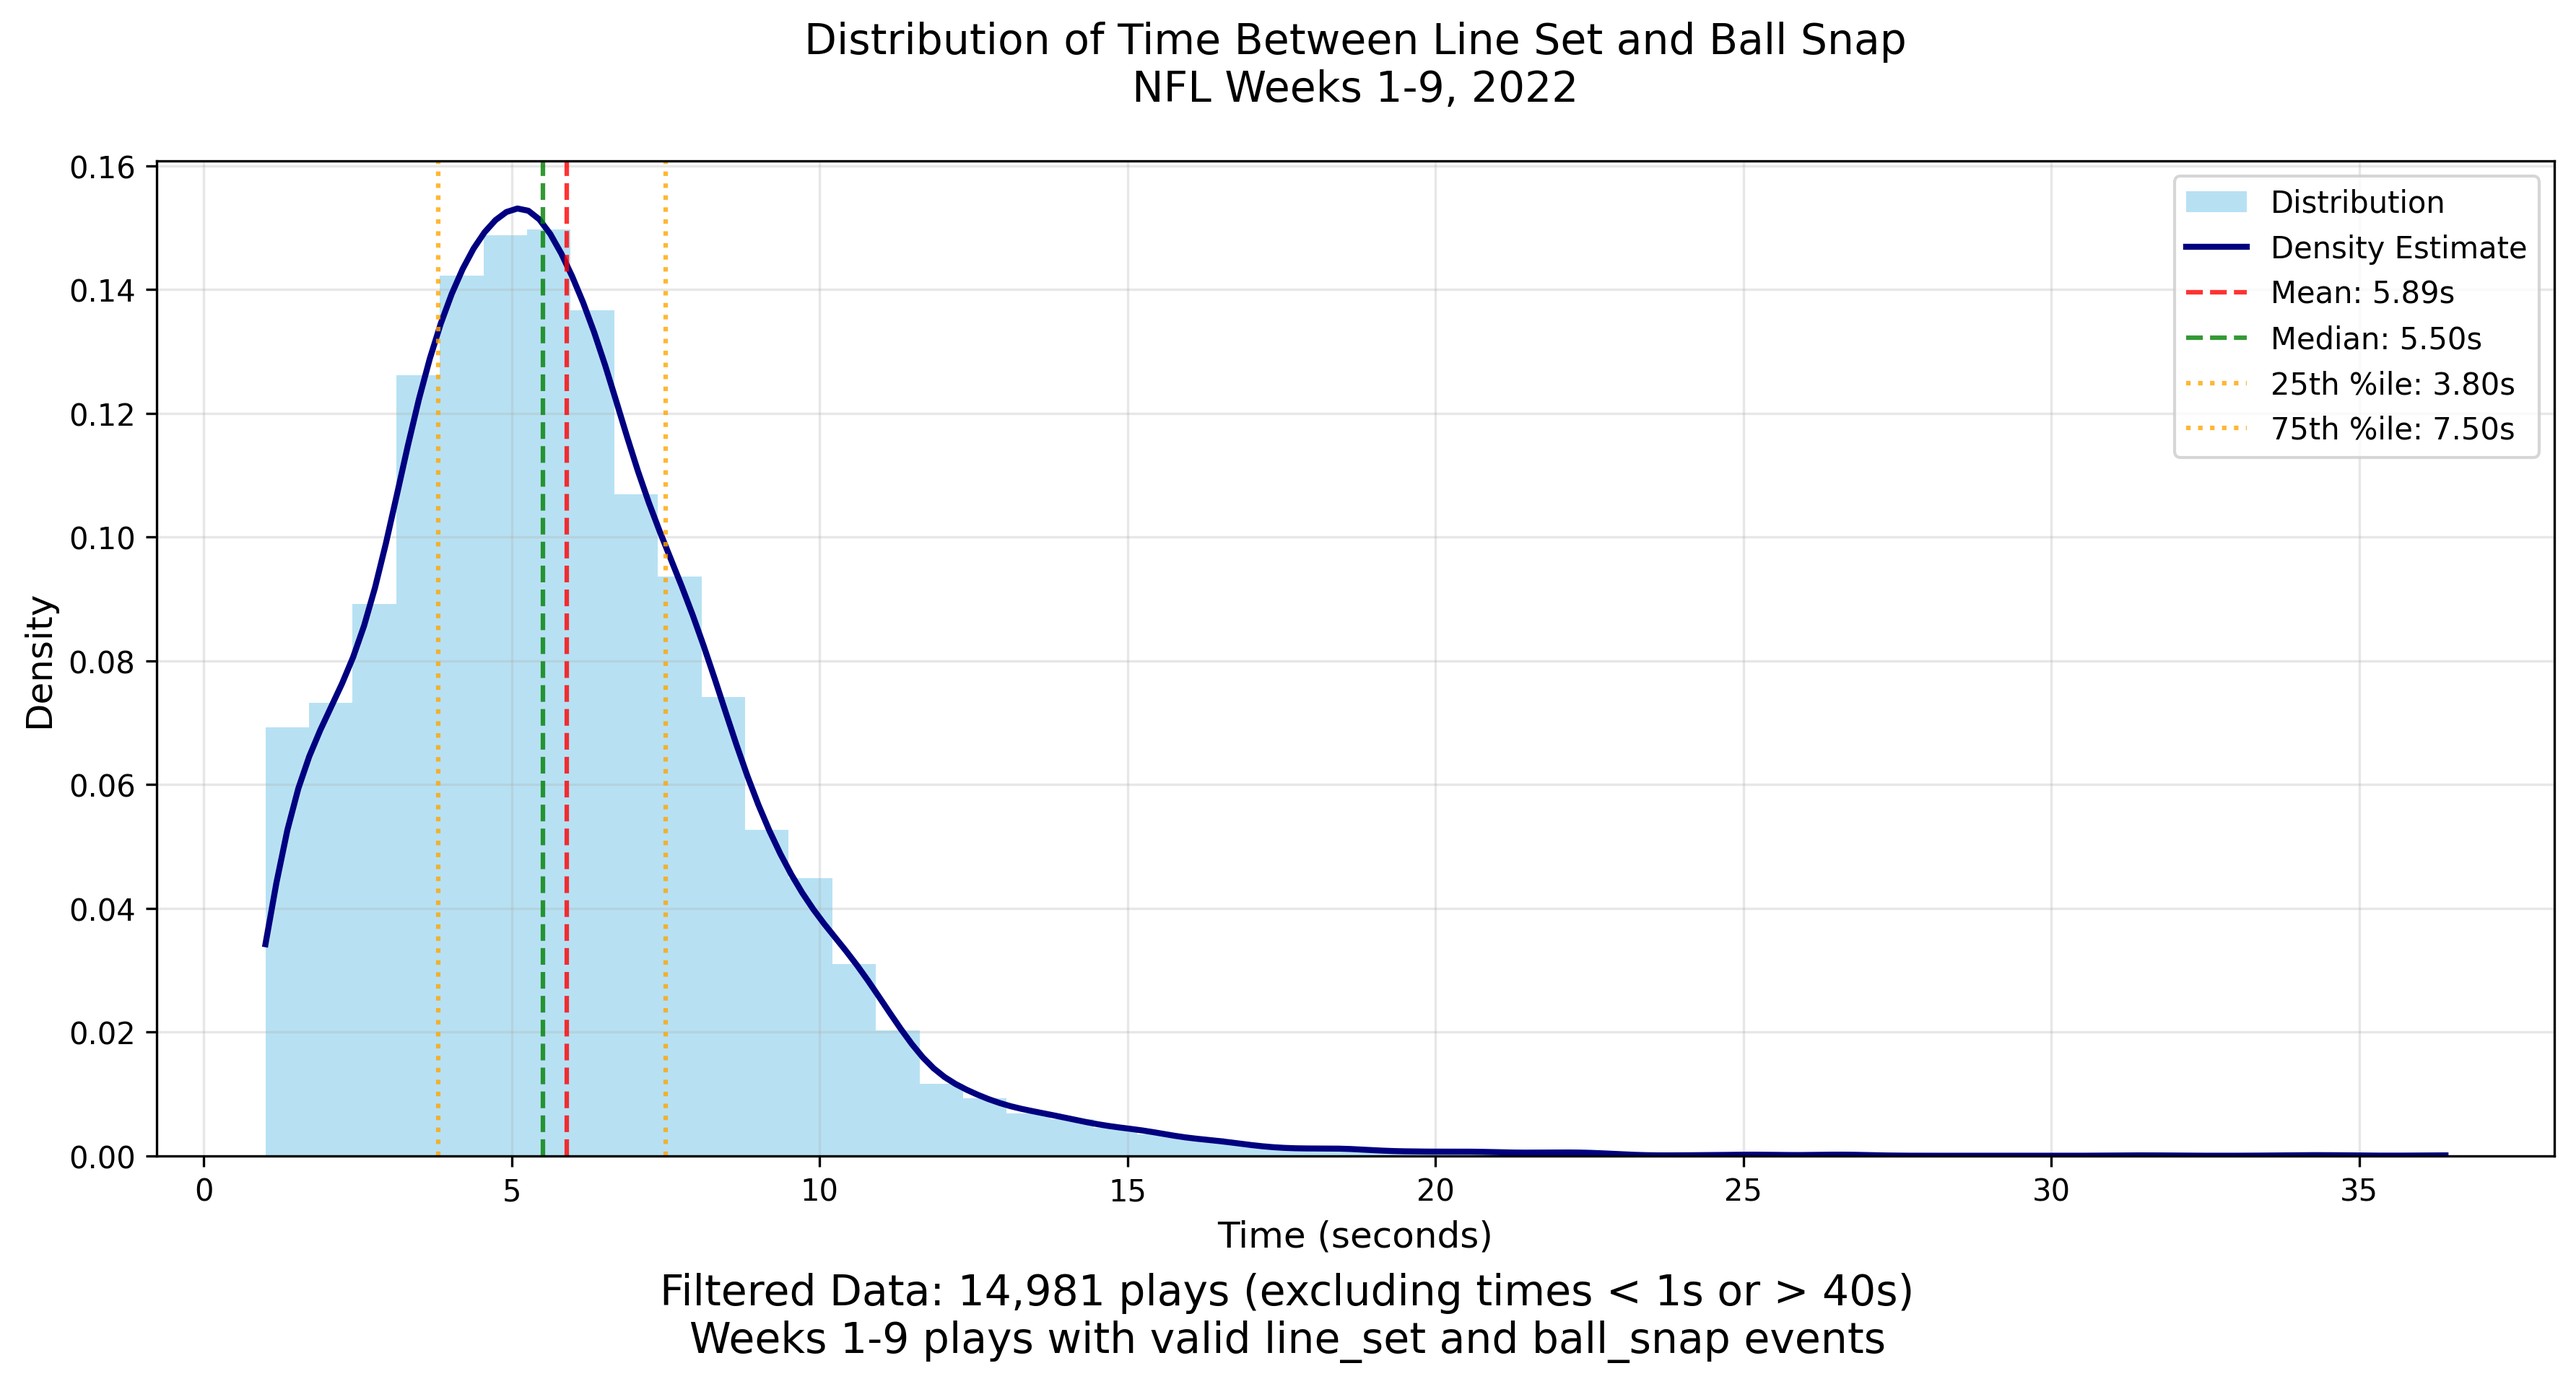
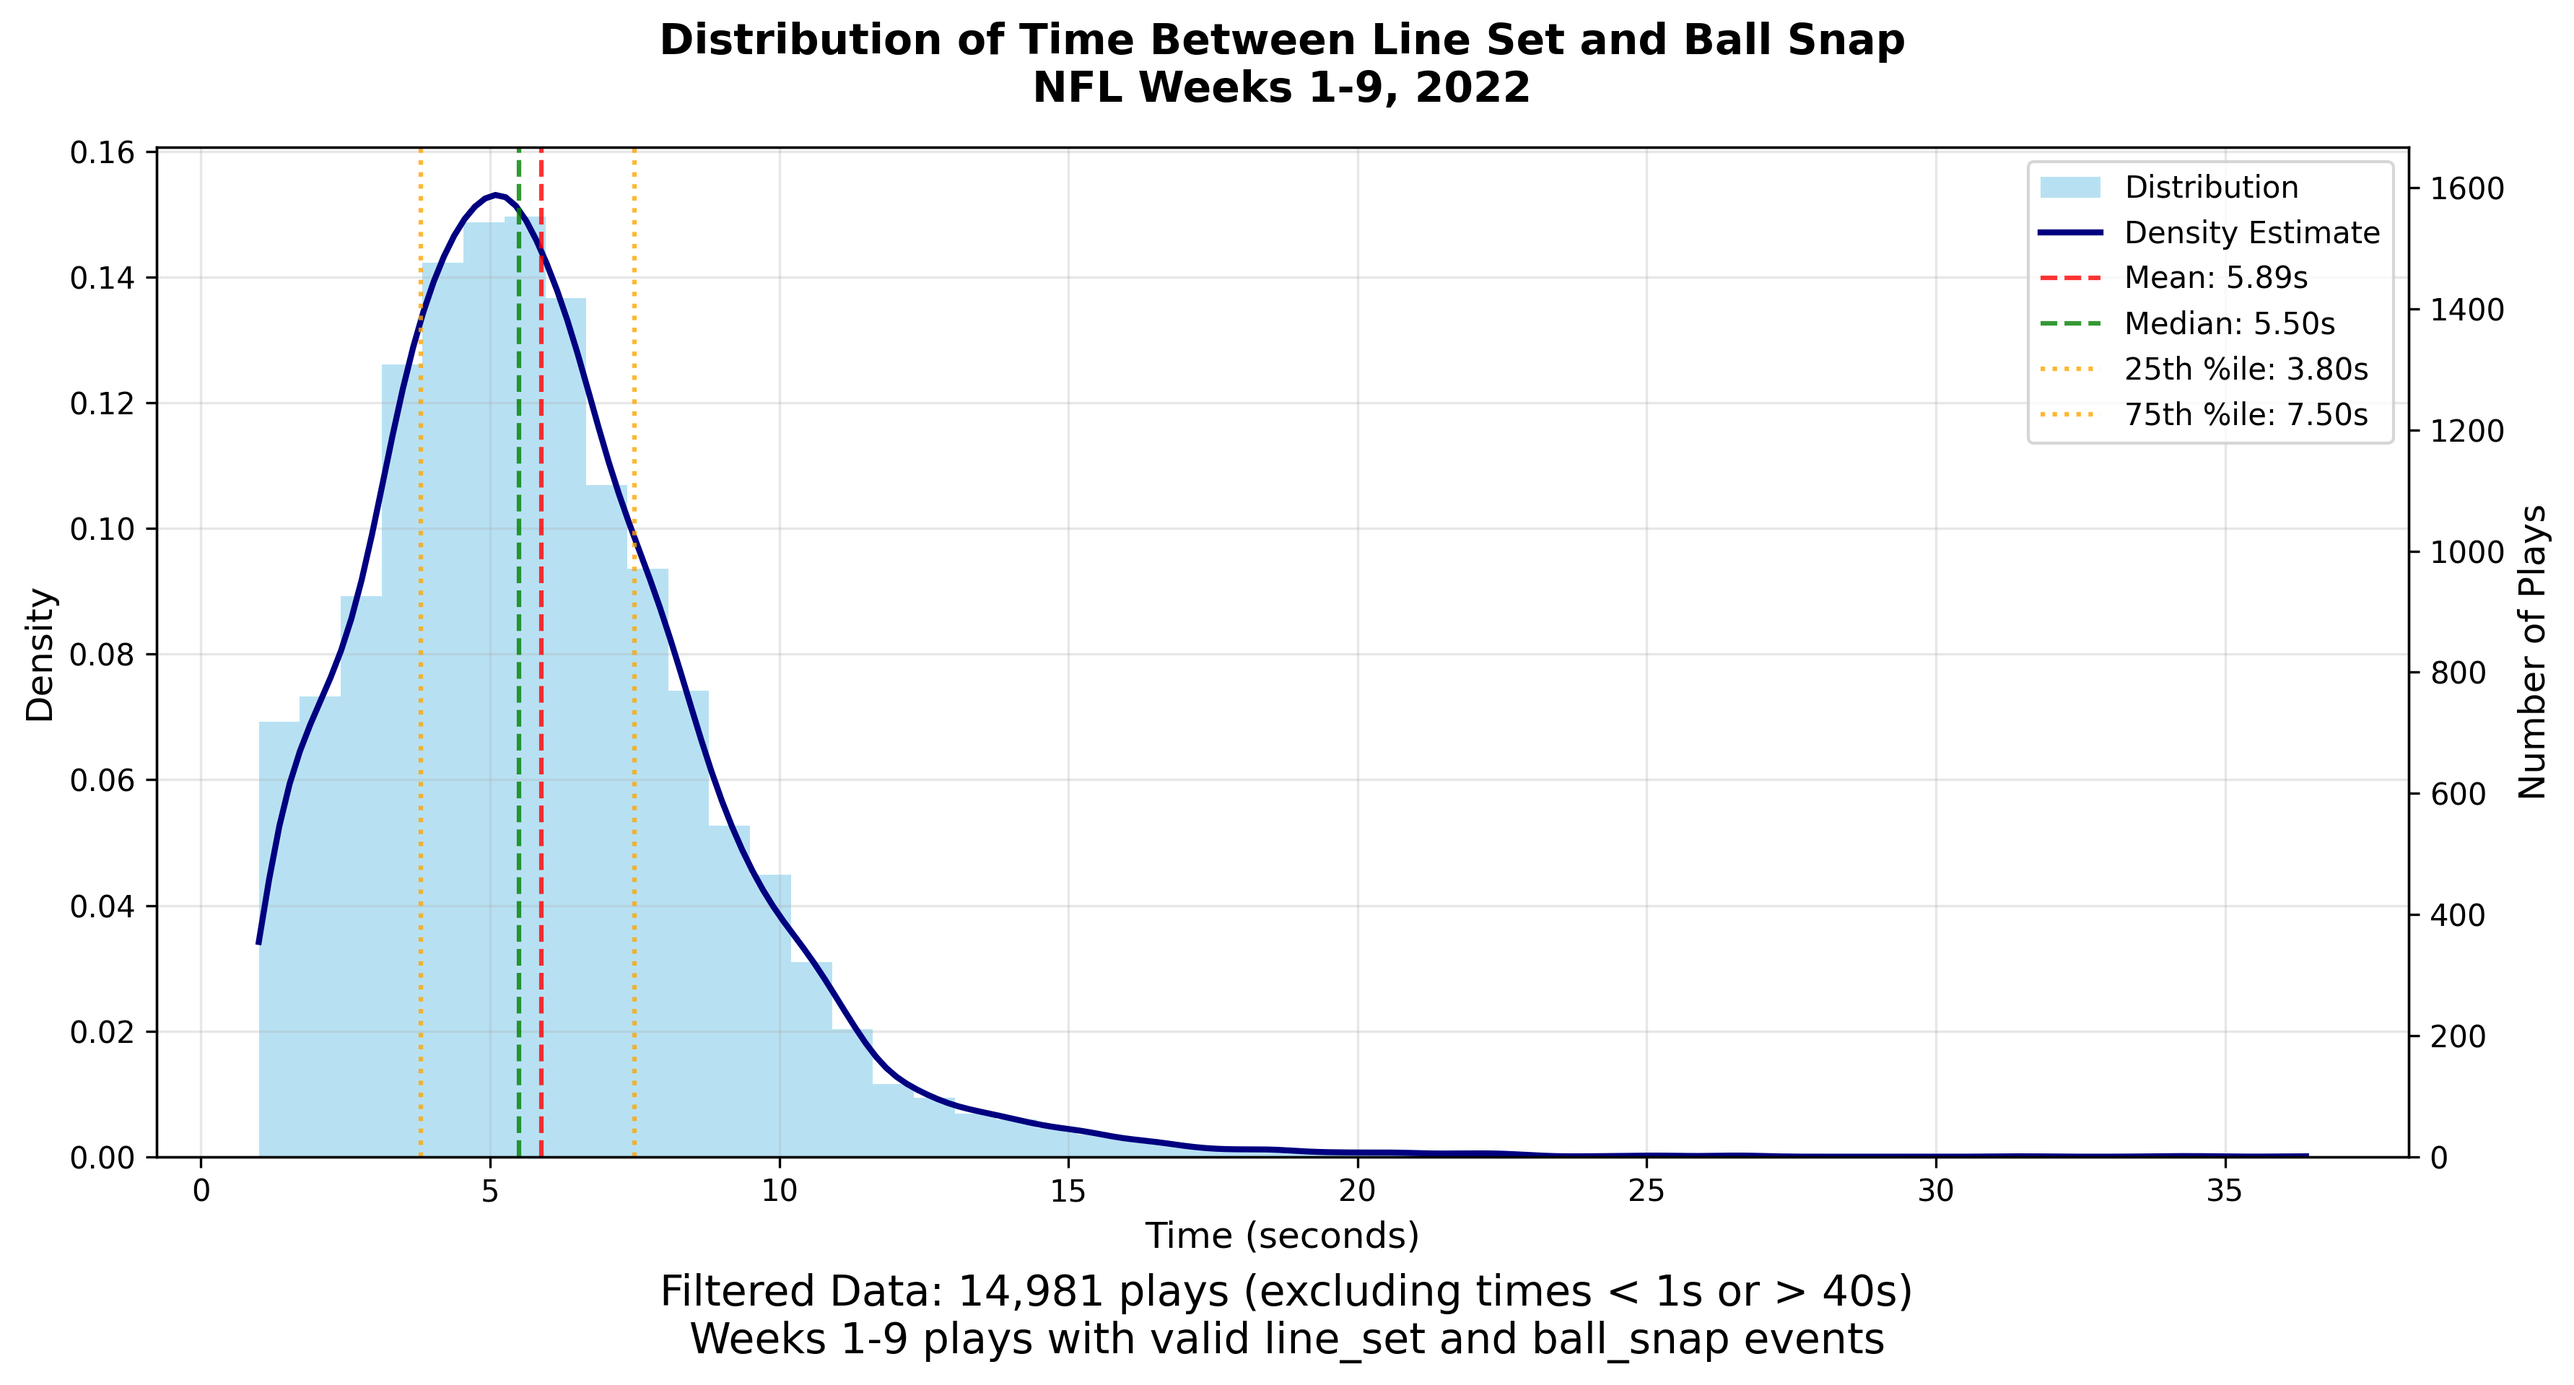
2 of 3 visuals done

diff --git a/analyze_plays.py b/analyze_plays.py
@@ -3,29 +3,60 @@ import matplotlib.pyplot as plt
 import numpy as np
 
 try:
+    # Read all tracking data files
+    print("Reading tracking data...")
+    all_tracking_data = []
+    for week in range(1, 10):  # Weeks 1-9
+        df = pd.read_csv(f'tracking_week_{week}.csv')
+        all_tracking_data.append(df)
+    
+    tracking_df = pd.concat(all_tracking_data)
+    
     # Read plays data
     print("Reading plays data...")
     plays_df = pd.read_csv('plays.csv')
-
-    # Get unique plays (gameId, playId combinations)
-    unique_plays = plays_df[['gameId', 'playId']].drop_duplicates()
-    total_plays = len(unique_plays)
-
-    # Count plays with penalties
-    plays_with_penalties = plays_df[plays_df['playNullifiedByPenalty'] == True][['gameId', 'playId']].drop_duplicates()
-    penalty_count = len(plays_with_penalties)
-    clean_plays = total_plays - penalty_count
-
-    print("\nPlay Counts:")
-    print(f"Total unique plays: {total_plays}")
-    print(f"Plays with penalties: {penalty_count}")
-    print(f"Plays without penalties: {clean_plays}")
-
-    # Analyze formations and coverages for clean plays
-    clean_plays_df = plays_df[~plays_df[['gameId', 'playId']].apply(tuple, axis=1).isin(
-        plays_with_penalties[['gameId', 'playId']].apply(tuple, axis=1)
-    )]
-
+    
+    # First, identify valid plays based on snap timing
+    print("\nIdentifying valid plays based on snap timing...")
+    valid_plays = []
+    for (game_id, play_id), play_data in tracking_df.groupby(['gameId', 'playId']):
+        # Get events in chronological order
+        events = play_data.sort_values('frameId')['event'].dropna().unique()
+        
+        # Find line_set and ball_snap events
+        line_set_frame = play_data[play_data['event'] == 'line_set']['frameId'].min()
+        snap_frame = play_data[play_data['event'] == 'ball_snap']['frameId'].min()
+        
+        # If both events exist and in correct order, calculate time difference
+        if (pd.notna(line_set_frame) and pd.notna(snap_frame) and 
+            snap_frame > line_set_frame):  # Ensure snap comes after line set
+            # Each frame is 0.1 seconds
+            time_diff = (snap_frame - line_set_frame) * 0.1
+            # Only include reasonable times (between 1 and 40 seconds)
+            if 1 <= time_diff <= 40:
+                valid_plays.append((game_id, play_id))
+    
+    valid_plays_df = pd.DataFrame(valid_plays, columns=['gameId', 'playId'])
+    
+    # Filter plays data for valid plays only
+    filtered_plays = plays_df.merge(valid_plays_df, on=['gameId', 'playId'])
+    total_plays = len(filtered_plays)
+    
+    print(f"\nAnalyzing {total_plays:,} valid plays...")
+    
+    # Analyze formations and coverages
+    off_cross = pd.crosstab(filtered_plays['offenseFormation'], filtered_plays['receiverAlignment'])
+    def_cross = pd.crosstab(filtered_plays['pff_passCoverage'], filtered_plays['pff_manZone'])
+    
+    # Sort formations by total frequency
+    formation_totals = off_cross.sum(axis=1)
+    off_cross = off_cross.loc[formation_totals.sort_values(ascending=False).index]
+    
+    # Sort coverages by total frequency and keep top 8
+    coverage_totals = def_cross.sum(axis=1)
+    top_coverages = coverage_totals.sort_values(ascending=False).head(8)
+    def_cross = def_cross.loc[top_coverages.index]
+    
     # Set figure style
     plt.rcParams['font.size'] = 14
     plt.rcParams['figure.facecolor'] = 'white'
@@ -35,31 +66,24 @@ try:
     red_colors = ['#c0392b', '#e74c3c', '#ec7063', '#f1948a', '#f5b7b1', '#fadbd8', '#fdedec']
     
     # Create figure with subplots
-    fig = plt.figure(figsize=(20, 18))  # Increased height to accommodate title
+    fig = plt.figure(figsize=(20, 18))
     
-    # Add total plays text at the top
-    fig.suptitle(f'Total Plays Analyzed: {total_plays:,}', 
-                 y=0.95, fontsize=20, weight='bold')
+    # Add title explaining the filtering
+    fig.suptitle(f'Formation and Coverage Analysis\nBased on {total_plays:,} plays with valid pre-snap timing (1-40 seconds)',
+                 y=0.95, fontsize=16, weight='bold')
     
     # 1. Offensive Formation and Receiver Alignment Chart
     plt.subplot(2, 1, 1)
     
-    # Create cross-tabulation of formations and alignments
-    off_cross = pd.crosstab(clean_plays_df['offenseFormation'], clean_plays_df['receiverAlignment'])
-    
-    # Sort formations by total frequency
-    formation_totals = off_cross.sum(axis=1)
-    off_cross = off_cross.loc[formation_totals.sort_values(ascending=False).index]
-    
     # Create stacked bar chart
     bottom = np.zeros(len(off_cross))
     bars = []
-    min_segment_height = 100  # Minimum height for showing labels
+    min_segment_height = 100
     
     for i, alignment in enumerate(off_cross.columns):
-        bars.append(plt.bar(off_cross.index, off_cross[alignment], bottom=bottom, 
-                label=f'{alignment}', color=blue_colors[i % len(blue_colors)],
-                edgecolor='black', linewidth=1))
+        bars.append(plt.bar(off_cross.index, off_cross[alignment], bottom=bottom,
+                          label=f'{alignment}', color=blue_colors[i % len(blue_colors)],
+                          edgecolor='black', linewidth=1))
         # Add labels for significant segments
         for j, value in enumerate(off_cross[alignment]):
             if value > min_segment_height:
@@ -73,25 +97,24 @@ try:
                         bbox=dict(facecolor='white', edgecolor='none', alpha=0.7, pad=2))
         bottom += off_cross[alignment]
     
-    plt.title('Offensive Formation and Receiver Alignment Distribution', pad=20, size=20, weight='bold')
-    plt.xlabel('Offensive Formation', size=16, weight='bold')
-    plt.ylabel('Number of Plays', size=16, weight='bold')
-    plt.xticks(rotation=45, ha='right', fontsize=14)
-    plt.legend(title='Receiver Alignment', bbox_to_anchor=(1.05, 1), loc='upper left', 
+    # Add total count and percentage above each bar
+    formation_totals = off_cross.sum(axis=1)  # Calculate total for each formation
+    for i, total in enumerate(formation_totals):
+        percentage = (total / total_plays) * 100
+        plt.text(i, bottom[i] + 50, f'Total: {int(total):,}\n({percentage:.0f}%)',
+                ha='center', va='bottom', fontsize=12, weight='bold')
+    
+    plt.title('Offensive Formation and Receiver Alignment Distribution', pad=20, size=16, weight='bold')
+    plt.xlabel('Offensive Formation', size=14, weight='bold')
+    plt.ylabel('Number of Plays', size=14, weight='bold')
+    plt.xticks(rotation=45, ha='right', fontsize=12)
+    plt.legend(title='Receiver Alignment', bbox_to_anchor=(1.05, 1), loc='upper left',
               title_fontsize=14, fontsize=12)
     plt.grid(axis='y', linestyle='--', alpha=0.7)
-    plt.ylim(0, 9000)  # Set consistent y-axis limit
-
+    plt.ylim(0, 9000)  # Set y-axis limit to 9000 plays
+    
     # 2. Defensive Coverage and Man/Zone Chart
     plt.subplot(2, 1, 2)
-    
-    # Create cross-tabulation of coverage and man/zone
-    def_cross = pd.crosstab(clean_plays_df['pff_passCoverage'], clean_plays_df['pff_manZone'])
-    
-    # Sort coverages by total frequency and keep top 8
-    coverage_totals = def_cross.sum(axis=1)
-    top_coverages = coverage_totals.sort_values(ascending=False).head(8)
-    def_cross = def_cross.loc[top_coverages.index]
     
     # Create vertical stacked bar chart
     bottom = np.zeros(len(def_cross))
@@ -112,20 +135,27 @@ try:
                         bbox=dict(facecolor='white', edgecolor='none', alpha=0.7, pad=2))
         bottom += def_cross[coverage_type]
     
-    plt.title('Defensive Coverage and Man/Zone Distribution', pad=20, size=20, weight='bold')
-    plt.xlabel('Coverage Type', size=16, weight='bold')
-    plt.ylabel('Number of Plays', size=16, weight='bold')
-    plt.xticks(rotation=45, ha='right', fontsize=14)
+    # Add total count and percentage above each bar
+    coverage_totals = def_cross.sum(axis=1)
+    for i, total in enumerate(coverage_totals):
+        percentage = (total / total_plays) * 100
+        plt.text(i, bottom[i] + 50, f'Total: {total:,}\n({percentage:.0f}%)',
+                ha='center', va='bottom', fontsize=12, weight='bold')
+    
+    plt.title('Defensive Coverage and Man/Zone Distribution', pad=20, size=16, weight='bold')
+    plt.xlabel('Coverage Type', size=14, weight='bold')
+    plt.ylabel('Number of Plays', size=14, weight='bold')
+    plt.xticks(rotation=45, ha='right', fontsize=12)
     plt.legend(title='Coverage Scheme', bbox_to_anchor=(1.05, 1), loc='upper left',
               title_fontsize=14, fontsize=12)
     plt.grid(axis='y', linestyle='--', alpha=0.7)
-    plt.ylim(0, 9000)  # Set consistent y-axis limit
-
+    plt.ylim(0, 9000)  # Set y-axis limit to 9000 plays
+    
     # Adjust layout and save
-    plt.tight_layout(pad=4.0, rect=[0, 0, 0.85, 0.95])  # Make room for legends
+    plt.tight_layout(pad=4.0, rect=[0, 0, 0.85, 0.95])
     plt.savefig('formation_coverage_analysis.png', dpi=300, bbox_inches='tight')
     print("\nVisualization saved as 'formation_coverage_analysis.png'")
-
+    
     # Print text summaries
     print("\nOffensive Formation Breakdown:")
     print(formation_totals.to_string())

diff --git a/analyze_snap_timing.py b/analyze_snap_timing.py
@@ -1,6 +1,7 @@
 import pandas as pd
 import numpy as np
 import matplotlib.pyplot as plt
+from scipy.stats import gaussian_kde
 
 # Set style for better visualization
 plt.style.use('default')
@@ -57,31 +58,45 @@ print(f"25th percentile: {percentiles[0]:.2f} seconds")
 print(f"75th percentile: {percentiles[1]:.2f} seconds")
 
 # Create visualization
-plt.figure(figsize=(12, 6))
+fig = plt.figure(figsize=(12, 6))
 
-# Create histogram
-plt.hist(snap_times, bins=50, density=True, alpha=0.6, color='skyblue', label='Distribution')
+# Create primary axis for density
+ax1 = plt.gca()
+ax2 = ax1.twinx()  # Create secondary axis for counts
 
-# Add kernel density estimate
-from scipy.stats import gaussian_kde
+# Create histogram with density on left axis
+n, bins, patches = ax1.hist(snap_times, bins=50, density=True, alpha=0.6, color='skyblue', label='Distribution')
+
+# Calculate actual counts for right axis
+counts, _ = np.histogram(snap_times, bins=50)
+ax2.hist(snap_times, bins=50, density=False, alpha=0, label='_nolegend_')  # Invisible histogram for count axis
+
+# Add kernel density estimate on left axis
 kde = gaussian_kde(snap_times)
 x_range = np.linspace(min_time, max_time, 200)
-plt.plot(x_range, kde(x_range), color='navy', linewidth=2, label='Density Estimate')
+ax1.plot(x_range, kde(x_range), color='navy', linewidth=2, label='Density Estimate')
 
 # Add vertical lines for key statistics
-plt.axvline(avg_time, color='red', linestyle='--', alpha=0.8, label=f'Mean: {avg_time:.2f}s')
-plt.axvline(median_time, color='green', linestyle='--', alpha=0.8, label=f'Median: {median_time:.2f}s')
-plt.axvline(percentiles[0], color='orange', linestyle=':', alpha=0.8, label=f'25th %ile: {percentiles[0]:.2f}s')
-plt.axvline(percentiles[1], color='orange', linestyle=':', alpha=0.8, label=f'75th %ile: {percentiles[1]:.2f}s')
+ax1.axvline(avg_time, color='red', linestyle='--', alpha=0.8, label=f'Mean: {avg_time:.2f}s')
+ax1.axvline(median_time, color='green', linestyle='--', alpha=0.8, label=f'Median: {median_time:.2f}s')
+ax1.axvline(percentiles[0], color='orange', linestyle=':', alpha=0.8, label=f'25th %ile: {percentiles[0]:.2f}s')
+ax1.axvline(percentiles[1], color='orange', linestyle=':', alpha=0.8, label=f'75th %ile: {percentiles[1]:.2f}s')
 
 # Customize plot
-plt.title('Distribution of Time Between Line Set and Ball Snap\nNFL Weeks 1-9, 2022', fontsize=14, pad=20)
+plt.title('Distribution of Time Between Line Set and Ball Snap\nNFL Weeks 1-9, 2022', fontsize=14, pad=15, weight='bold')
+ax1.set_xlabel('Time (seconds)', fontsize=12)
+ax1.set_ylabel('Density', fontsize=12)
+ax2.set_ylabel('Number of Plays', fontsize=12)
+
+# Add filtering information at the bottom
 plt.figtext(0.5, -0.05, f'Filtered Data: {len(snap_times):,} plays (excluding times < 1s or > 40s)\nWeeks 1-9 plays with valid line_set and ball_snap events',
-           fontsize=14, ha='center')
-plt.xlabel('Time (seconds)', fontsize=12)
-plt.ylabel('Density', fontsize=12)
-plt.grid(True, alpha=0.3)
-plt.legend(fontsize=10)
+            fontsize=14, ha='center')
+
+# Adjust grid
+ax1.grid(True, alpha=0.3)
+
+# Adjust legend
+ax1.legend(fontsize=10, loc='upper right')
 
 # Save plot
 plt.tight_layout()
